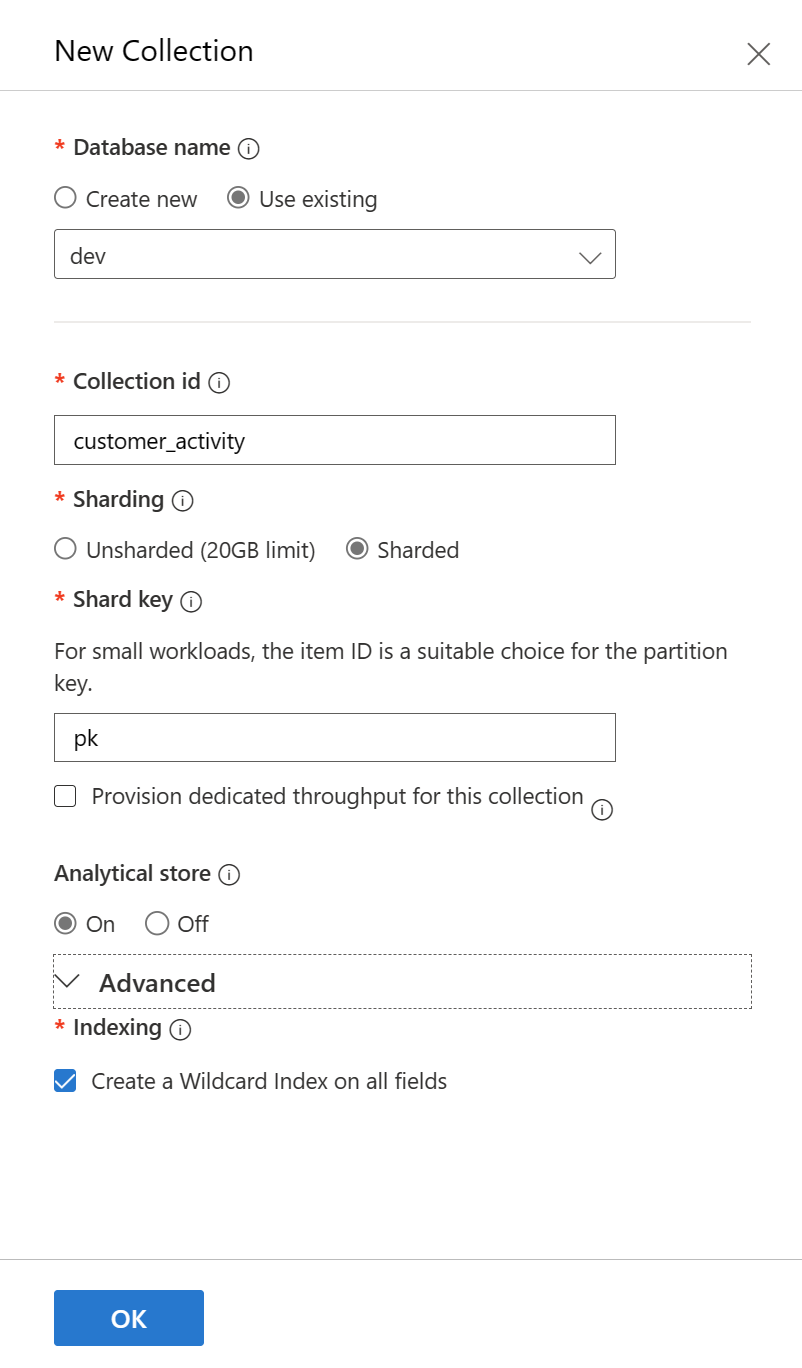
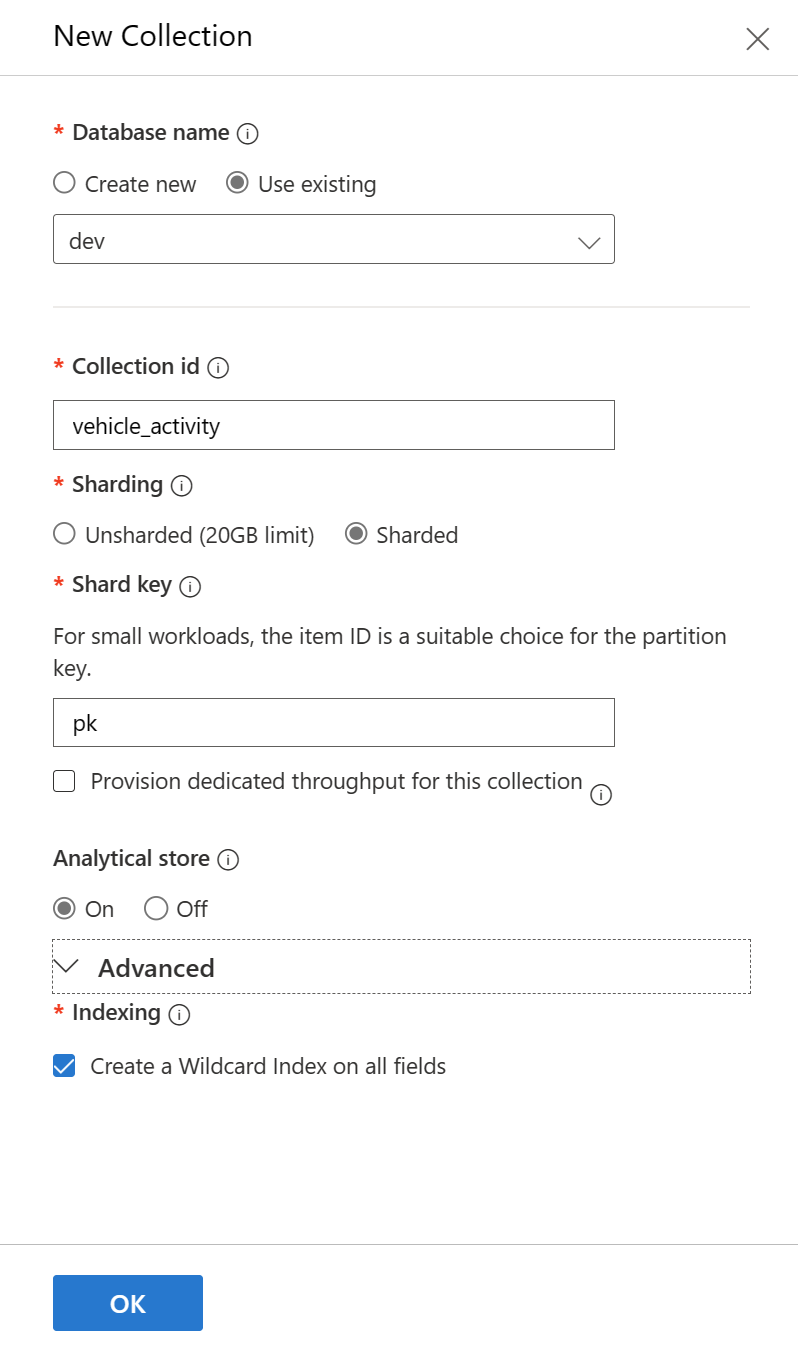
apis/mongo/python/main.py - streaming vehicle events

diff --git a/apis/mongo/python/main.py b/apis/mongo/python/main.py
@@ -3,6 +3,8 @@ Usage:
   python main.py <func>
   python main.py env         <-- displays necessary environment variables
   python main.py test_suite  <-- executes a suite of CosmosDB Mongo API operations
+  python main.py create_customer_activity_stream <sleep_secs> <doc_count>
+  python main.py create_customer_activity_stream 0.5 100
 Options:
   -h --help     Show this screen.
   --version     Show version.
@@ -16,7 +18,10 @@ import sys
 import time
 import os
 
+from datetime import datetime
 from docopt import docopt
+from faker import Faker
+from faker_vehicle import VehicleProvider
 
 from pysrc.env import Env
 from pysrc.fs import FS
@@ -135,6 +140,37 @@ def test_suite():
     print('count_docs final ...')
     print(m.count_docs({}))
 
+def create_customer_activity_stream():
+    sleep_secs = float(sys.argv[2])
+    doc_count  = int(sys.argv[3])
+    print('create_customer_activity_stream; sleep_secs: {}, doc_count: {}'.format(
+        sleep_secs, doc_count))
+
+    print('connecting to cosmosdb ...')
+    opts = dict()
+    opts['conn_string'] = Env.var('AZURE_COSMOSDB_MONGODB_CONN_STRING')
+    opts['verbose'] = True
+    m = Mongo(opts)
+    db = m.set_db('dev')
+    coll = m.set_coll('vehicle_activity')
+
+    print(int(time.time()))
+    Faker.seed(int(time.time()))
+    f = Faker()
+    f.add_provider(VehicleProvider)
+
+    for n in range(0, doc_count):
+        print(n)
+        doc = dict()
+        tid = f.iban()
+        doc['pk'] = tid
+        doc['utc_time'] = str(datetime.utcnow())  #time.time()
+        doc['transponder'] = tid
+        doc['location'] = f.local_latlng()
+        doc['vehicle'] = f.vehicle_object()
+        doc['plate'] = f.license_plate()
+        print(json.dumps(doc, sort_keys=False, indent=2))
+
 
 if __name__ == "__main__":
     if len(sys.argv) > 1:
@@ -143,6 +179,8 @@ if __name__ == "__main__":
             check_env()
         elif cli_func == 'test_suite':
             test_suite()
+        elif cli_func == 'create_customer_activity_stream':
+            create_customer_activity_stream()
         else:
             print_options('Error: invalid command-line function: {}'.format(cli_func))
     else:

diff --git a/presentations/mongo_indexing/README.md b/presentations/mongo_indexing/README.md
@@ -30,7 +30,7 @@ This presentation: https://github.com/cjoakim/azure-cosmos-db-presentations/tree
 </p>
 
 ```
-db.getCollection("customer_activity").getIndexes()
+db.getCollection("vehicle_activity").getIndexes()
 
 [
     {
@@ -39,7 +39,7 @@ db.getCollection("customer_activity").getIndexes()
             "_id" : 1.0
         },
         "name" : "_id_",
-        "ns" : "dev.customer_activity"
+        "ns" : "dev.vehicle_activity"
     },
     {
         "v" : 1.0,
@@ -47,10 +47,14 @@ db.getCollection("customer_activity").getIndexes()
             "$**" : 1.0
         },
         "name" : "$**_1",
-        "ns" : "dev.customer_activity"
+        "ns" : "dev.vehicle_activity"
     }
 ]
 ```
+
+<p align="center">
+    <img src="../img/studio-3t-getIndexes.png" width="90%">
+</p>
 
 ---
 
